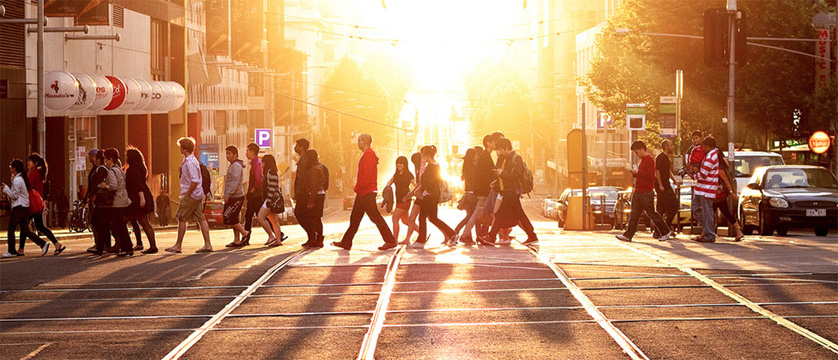
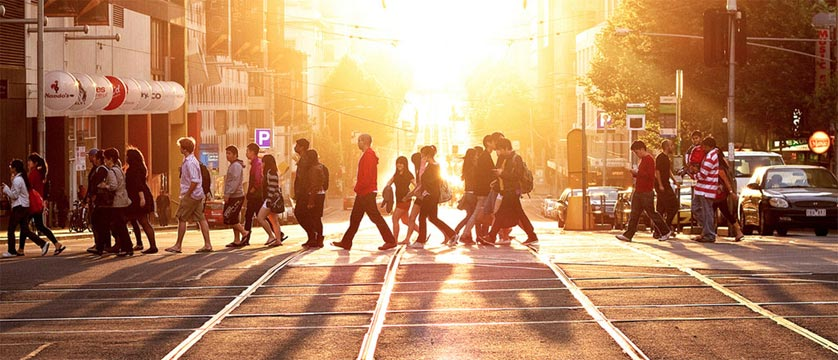
Version 2.4.9
Remake banner image for all responsive grid, set quality to 50

diff --git a/content/css/default.css b/content/css/default.css
@@ -709,10 +709,10 @@ img {display:block;max-width:100%;}
 #banner_wrapper
 {
     display:block;
-    height:14rem;
+    height:45rem;
     position:relative;
     
-    background:url(../image/bg_banner_wrapper.jpg) center center no-repeat;
+    background:url(../image/bg_banner_wrapper.l.jpg) center center no-repeat;
     background-size:cover;
 }
 
@@ -1819,11 +1819,6 @@ img {display:block;max-width:100%;}
 
 @media only screen and (min-width:992px)
 {
-    #banner_wrapper
-    {
-        height:45rem;
-    }    
-    
     #banner_container
     {
         width:800px;
